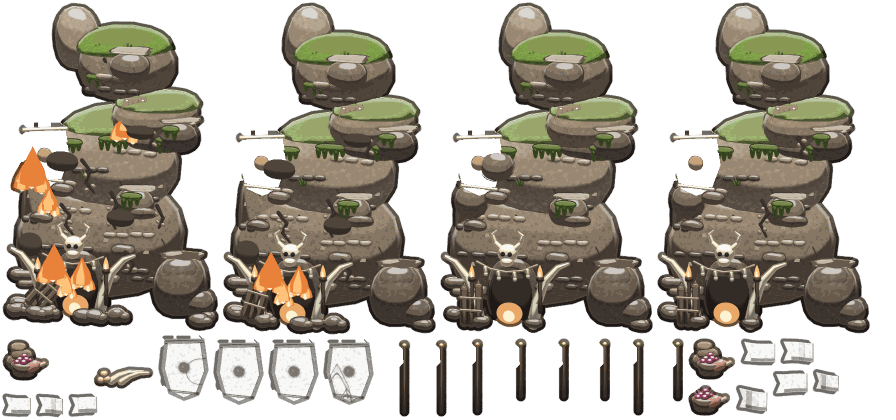
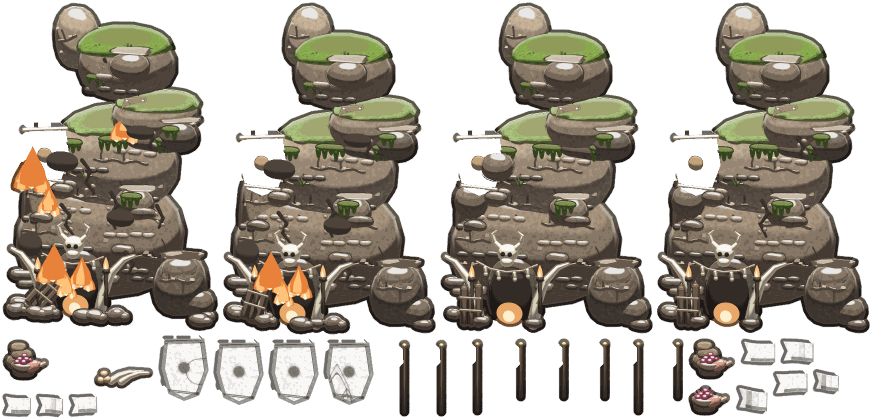
Art world wave A: the Stone base's lower mound in beds, and a stronger lit top (the base toward 3.8)
- Bedding seams (1.8 lu, dark) across the foot, the body and over the cave, built as strips between surface hits so
  they follow the curved rock; cross joints staggered per bed; a light lip in pieces above each seam and light chips;
  the same on the boulder stack under the first mount and on the summit pinnacle (which tilts with it at crumble 3).
- The finish highlight 2.0 -> 2.6 and the lit top plane 0.18 -> 0.28: the base is drawn 1.79x, where small highlights
  average out.
- Footprint unchanged to the pixel (x0, x1, top, the gate column); mounts, flags, lights, smoke and horn unchanged;
  world checks against 45647d4 pass; the 13 world visual test files pass (339 tests).
- Metrics at rest: flat 0.280 -> 0.241, micro 3.24 -> 3.48, edge 0.322 -> 0.358, highlight 0.011 -> 0.016 (the base
  floors are 0.22 / 4.0 / 0.44 / 0.022; shipped 0.568 / 2.01 / 0.207 / 0.002).

Claude-Session: https://claude.ai/code/session_01NfGD2JrsQPPo6oeDJ8LLwf

diff --git a/art/blender/world/base_stone.py b/art/blender/world/base_stone.py
@@ -12,6 +12,8 @@ Treasury: a berry basket and meat (1), a pile of furs (2), tusks and ochre stone
 import math
 import random
 
+from mathutils import Matrix, Vector
+
 from ageborn_art import face as F
 from ageborn_art import look
 from ageborn_art.geometry import Geo
@@ -44,8 +46,88 @@ CHIP = "#B2A08A"
 STRATA_LT = "#A89682"     # world wave A: the lit ledges and the dark seams of the crag's strata
 STRATA_DK = "#5E554B"
 
+SEAM = "#4B433A"          # world wave A: the bedding seams and cross joints of the lower mound
+LIP = "#D6C7A9"           # and the lit lips and chips above them (lighter than CHIP: a camera-facing chip shades
+                          # darker than the rock's lit top planes beside it)
+
 DEPTHS = [-40, -24, -40, -24]
 CAVE = (-104.0, -44.0)
+
+
+def _strip(face, g, pts, w, depth=1.4):
+    """A dark line of width w through the screen points `pts` [(x, z)] that follows the surface under `face`: each
+    segment is a quad between the two surface hits (a flat decal would sink into a curved rock), with round joints.
+    Points the face's rays miss (past the silhouette) end the line there."""
+    U, V, N = face.right, face.up, face.view
+    hits = []
+    for x, z in pts:
+        h = face.hit(x, z)
+        hits.append(None if (h - Vector((x, 0.0, z))).length < 1e-6 else h)
+    for (p0, p1), (h0, h1) in zip(zip(pts, pts[1:]), zip(hits, hits[1:])):
+        if h0 is None or h1 is None:
+            continue
+        dx, dz = p1[0] - p0[0], p1[1] - p0[1]
+        L = math.hypot(dx, dz) or 1.0
+        n = U * (-dz / L * w / 2) + V * (dx / L * w / 2)
+        quad = [h0 + n, h1 + n, h1 - n, h0 - n]
+        verts = [tuple(q - N * (depth / 2)) for q in quad] + [tuple(q + N * (depth / 2)) for q in quad]
+        g._add(verts, [[3, 2, 1, 0], [4, 5, 6, 7], [0, 1, 5, 4], [1, 2, 6, 5], [2, 3, 7, 6], [3, 0, 4, 7]],
+               Matrix.Identity(4), smooth=False)
+    for h in hits:
+        if h is not None:
+            face.decal(g, h, F.ellipse(0, 0, w / 2, w / 2, 8), depth)
+
+
+def _beds(face, rig, rnd, seams, joint="body", joints=None, cracks=(), chips=None, w=1.8):
+    """Bedding seams on a rock face (`face`, an ageborn_art.face.Face over the rock): each seam (z, x0, x1) a wavy dark
+    line w lu wide that follows the surface; cross joints (`joints` [(x, z0, z1)], or one every 16-24 lu rising from
+    each seam toward the next, staggered per bed like courses); light chips on the lit lip above each seam (or at
+    `chips` [(x, z)]); `cracks` [[(x, z), ...]] hairlines."""
+    g = Geo()
+    lips = []
+    for z, xa, xb in seams:
+        n = max(2, int((xb - xa) / 3))
+        pts = [(xa + (xb - xa) * i / n, z + 1.1 * math.sin(i * 0.9 + z) + rnd.uniform(-0.4, 0.4)) for i in range(n + 1)]
+        _strip(face, g, pts, w)
+        lips.append(pts)
+    if joints is None:
+        joints = []
+        for k, (z, xa, xb) in enumerate(seams):
+            x = xa + 7 + (k % 2) * 9
+            while x < xb - 7:
+                joints.append((x + rnd.uniform(-2, 2), z + 1.2, z + rnd.uniform(9, 12)))
+                x += rnd.uniform(17, 24)
+    for x, za, zb in joints:
+        _strip(face, g, [(x, za), (x + rnd.uniform(-0.6, 0.6), (za + zb) / 2), (x + rnd.uniform(-1.0, 1.0), zb)],
+               w * 0.8)
+    for pts in cracks:
+        _strip(face, g, pts, 1.0)
+    rig.part(joint, g, SEAM, outline=0, highlight=False)
+    # the lit lip of the bed above each seam, in pieces (a dark seam under a light edge reads as a ledge at the
+    # base's density, where a seam alone reads as a crack)
+    g = Geo()
+    for pts in lips:
+        run = []
+        for i, (xp, zp) in enumerate(pts):
+            if i % 5 in (1, 2, 3):
+                run.append((xp, zp + w * 0.5 + 0.9))
+            elif len(run) > 1:
+                _strip(face, g, run, 0.9)
+                run = []
+            else:
+                run = []
+        if len(run) > 1:
+            _strip(face, g, run, 0.9)
+    if chips is None:
+        chips = []
+        for pts in lips:
+            for xp, zp in pts[4:-2:7]:
+                chips.append((xp + rnd.uniform(-1.5, 1.5), zp + 3.4))
+    for x, z in chips:
+        s = rnd.uniform(0.8, 1.15)
+        face.decal(g, face.hit(x, z), [(-2.4 * s, -1.0 * s), (2.0 * s, -1.4 * s), (2.6 * s, 0.8 * s),
+                                       (-1.2 * s, 1.5 * s)], 1.6)
+    rig.part(joint, g, LIP, outline=0, highlight=False)
 
 
 def build(rig, M):
@@ -170,7 +252,31 @@ def build(rig, M):
                                      (-36, -20, 206, 3.2), (-150, 10, 122, 3.0))):
         rock(g, (x, y, z), (r * 1.4, r, r * 0.7), seed=70 + k, jag=0.15, p=2.6, cuts=3)
     rig.part("body", g, STRATA_LT, outline=0.6)
+    # The lower mound in beds (pilot review, the base to 3.8): dark bedding seams 1.5 lu wide between the ledges, short
+    # cross joints between the seams (the beds break into blocks), and light chips on the lit lip above each seam, so
+    # the big faces read as layered, weathered stone at the base's density instead of smooth piles.
+    rb = random.Random(47)    # its own stream, so the parts after it keep theirs
+    lobe = Geo()               # the crag's left lobe, so the seams there follow its face
+    rock(lobe, (-140, 24, 70), (30, 34, 70), seed=2)
+    _beds(F.Face(rig, "body", [crag, lobe]), rig, rb, [
+        # (z, x from, x to) on the foot, left and right of the cave and over it, and on the body above
+        (38.0, -170, -140), (63.0, -168, -134), (101.0, -164, -84), (44.0, -72, -24), (84.0, -82, -30),
+        (122.0, -138, -92), (140.0, -96, -42), (166.0, -112, -60)])
+    lobe.bm.free()
     crag.bm.free()
+    # the boulder stack at the gate (under the first mount) and the summit pinnacle: a seam, a crack and chips each
+    x0, y0, z0 = M[0]
+    stack = Geo()
+    rock(stack, (x0 - 6, y0 + 16, z0 * 0.45), (26, 24, z0 * 0.5), seed=21, jag=0.14)
+    rock(stack, (x0 + 10, y0 + 8, 12), (16, 14, 13), seed=22, jag=0.18)
+    _beds(F.Face(rig, "body", [stack]), rig, rb, [(22.0, -30, 4)], joints=((-21, 23.2, 33), (-7, 20.8, 11)),
+          cracks=[[(-30, 36), (-27, 31), (-29, 26)]], chips=((-26, 37), (-12, 40), (2, 25), (-17, 25)))
+    stack.bm.free()
+    pin = Geo()
+    rock(pin, (-104, 30, 262), (22, 18, 30), seed=15, jag=0.16, rot=(0, 12, 0))
+    _beds(F.Face(rig, "top", [pin]), rig, rb, [(272.0, -120, -98)], joint="top", joints=((-110, 273.2, 283),),
+          chips=((-114, 286), (-104, 275), (-117, 262)))
+    pin.bm.free()
     # chunks that break off
     g = Geo()
     rock(g, (-120, -28, 150), (16, 14, 14), seed=11, jag=0.2)
@@ -380,7 +486,9 @@ MODULE = base_module(
 # (the big boulders take soft weathering blotches of 3-5 lu, which read at the base's density where the stone chips
 # turn to grain; the strata ledges keep the chipped stone)
 STONE_BASE_KINDS = {STONE: "hide", STONE_LT: "hide", STONE_DK: "hide", STONE_DKR: "hide", CHIP: "stone",
-                    STRATA_LT: "stone", STRATA_DK: "stone",
+                    STRATA_LT: "stone", STRATA_DK: "stone", SEAM: "stone", LIP: "stone",
                     MOSS: "fur", MOSS_LT: "fur", MOSS_DK: "fur", BONE: "bone", WOOD: "wood", WOOD_DK: "wood",
                     HIDE: "leather", FUR: "fur", "#B8A47E": "leather", "team": "hide"}
-LW.opt_in(MODULE, STONE_BASE_KINDS, highlight=2.0, shade=dict(KW.SHADE_WORLD, top=0.18))
+# a stronger finish highlight and lit top plane than the other world items: the base is drawn 1.79x, where small
+# highlights average out and the big boulders' tops must still read as lit (pilot review)
+LW.opt_in(MODULE, STONE_BASE_KINDS, highlight=2.6, shade=dict(KW.SHADE_WORLD, top=0.28))
